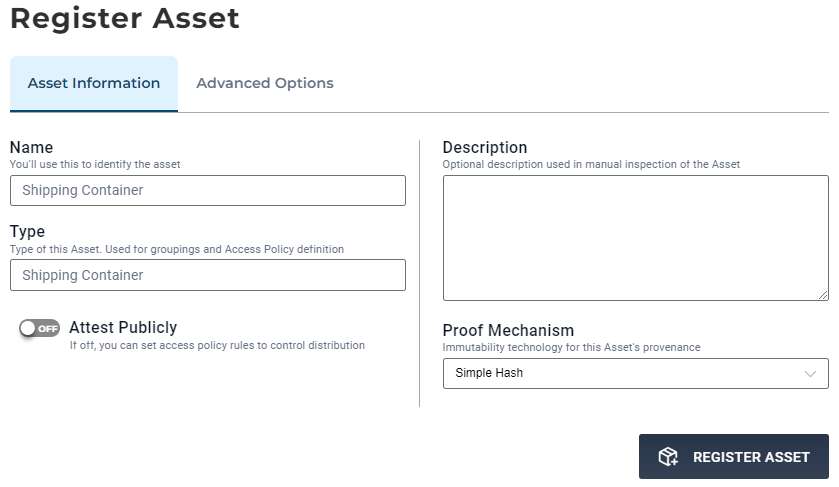
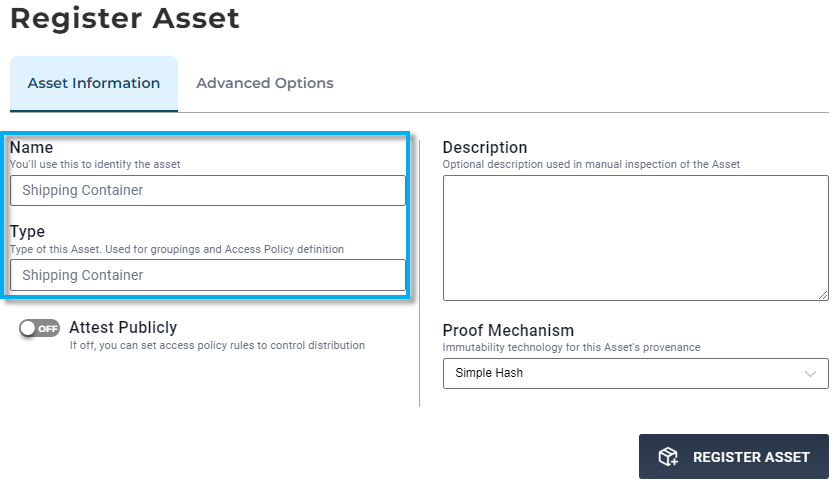
Update the UI walkthrough to match

Changed region(s): [[0.0, 0.2464, 0.4958, 0.6468]]

diff --git a/content/developers/developer-patterns/containers-as-assets/index.md b/content/developers/developer-patterns/containers-as-assets/index.md
@@ -85,13 +85,18 @@ Now that we have created a `Shipping Container` Asset, we can create an Asset to
 {{< note >}}
 **Note:** For this example, we used the custom attribute `within_container`, but you could use any key to associate the Assets that does not contain the reserved `arc_` prefix.
 {{< /note >}}
-
 {{< tabs name="box_asset" >}}
 {{{< tab name="UI" >}}
-{{< img src="BoxAsset.png" alt="Rectangle" caption="<em>Create the Box</em>" class="border-0" >}}
+</br>
 
-{{< img src="WithinContainer.png" alt="Rectangle" caption="<em>Add an Extended Attribute</em>" class="border-0" >}}
-
+1. Set the `Name` and `Type`  
+    {{< img src="BoxAsset.png" alt="Rectangle" caption="<em>Create the Box</em>" class="border-0" >}}
+1. Click `Advanced Options`  
+    {{< img src="WithinContainer.png" alt="Rectangle" caption="<em>Add an Extended Attribute</em>" class="border-0" >}}
+1. Click `ADD ATTRIBUTE` to set `Extended Attributes`
+1. Add Attribute = `within_container` and Value = `Shipping Container`
+1. Click `REGISTER ASSET` to complete the association of the box within the container
+1. Repeat the above a few times, editing the `Name` to add several boxes within the `Shipping Container`
 {{< /tab >}}
 {{< tab name="YAML" >}}
 {{< note >}}
@@ -119,6 +124,7 @@ steps:
       within_container: Shipping Container
     confirm: true
 ```
+Repeat the above a few times, editing the `arc_display_name` to add several boxes within the `Shipping Container`
 {{< /tab >}}
 {{< tab name="JSON" >}}
 
@@ -143,12 +149,13 @@ curl -X POST \
      -d "@asset-box.json" \
      https://app.rkvst.io/archivist/v2/assets | jq
 ```
+Repeat the above a few times, editing the `arc_display_name` to add several boxes within the `Shipping Container`
+
 If errors occur, see [Troubleshooting Token Generation](../getting-access-tokens-using-app-registrations/#troubleshooting-token-generation)
 {{< /tab >}}}
 {{< /tabs >}}
 
-1. The `Box` has been recorded as being within the `Shipping Container`.
-1. Edit `"arc_display_name"` within the `asset-box.json` file, and repeat this process creating additional Assets within the `Box`.
+The `Box(es)` have been recorded as being within the `Shipping Container`.
 
 ## List All Assets Associated With a Container
 
@@ -156,8 +163,13 @@ To retrieve all Assets associated with a container, you can run a query with a f
 
 {{< tabs name="list_contents" >}}
 {{{< tab name="UI" >}}
-Go to the `Audit/Filter` page and filter the Assets and Events within your tenancy.
-{{< img src="AssetFilter.png" alt="Rectangle" caption="<em>Filter Assets and Events</em>" class="border-0" >}}
+</br>
+
+1. Select `Audit/Filter` in the navigation to filter Assets and Events within your tenancy
+1. Select `ADD FILTER`
+1. Select `Asset Attribute`, set the name to `within_container` and the value to `Shipping Container`
+1. Select `APPLY FILTERS` to view the subset of Assets created  
+    {{< img src="AssetFilter.png" alt="Rectangle" caption="<em>Filter Assets and Events</em>" class="border-0" >}}
 {{< /tab >}}
 {{< tab name="YAML" >}}
 {{< note >}}
